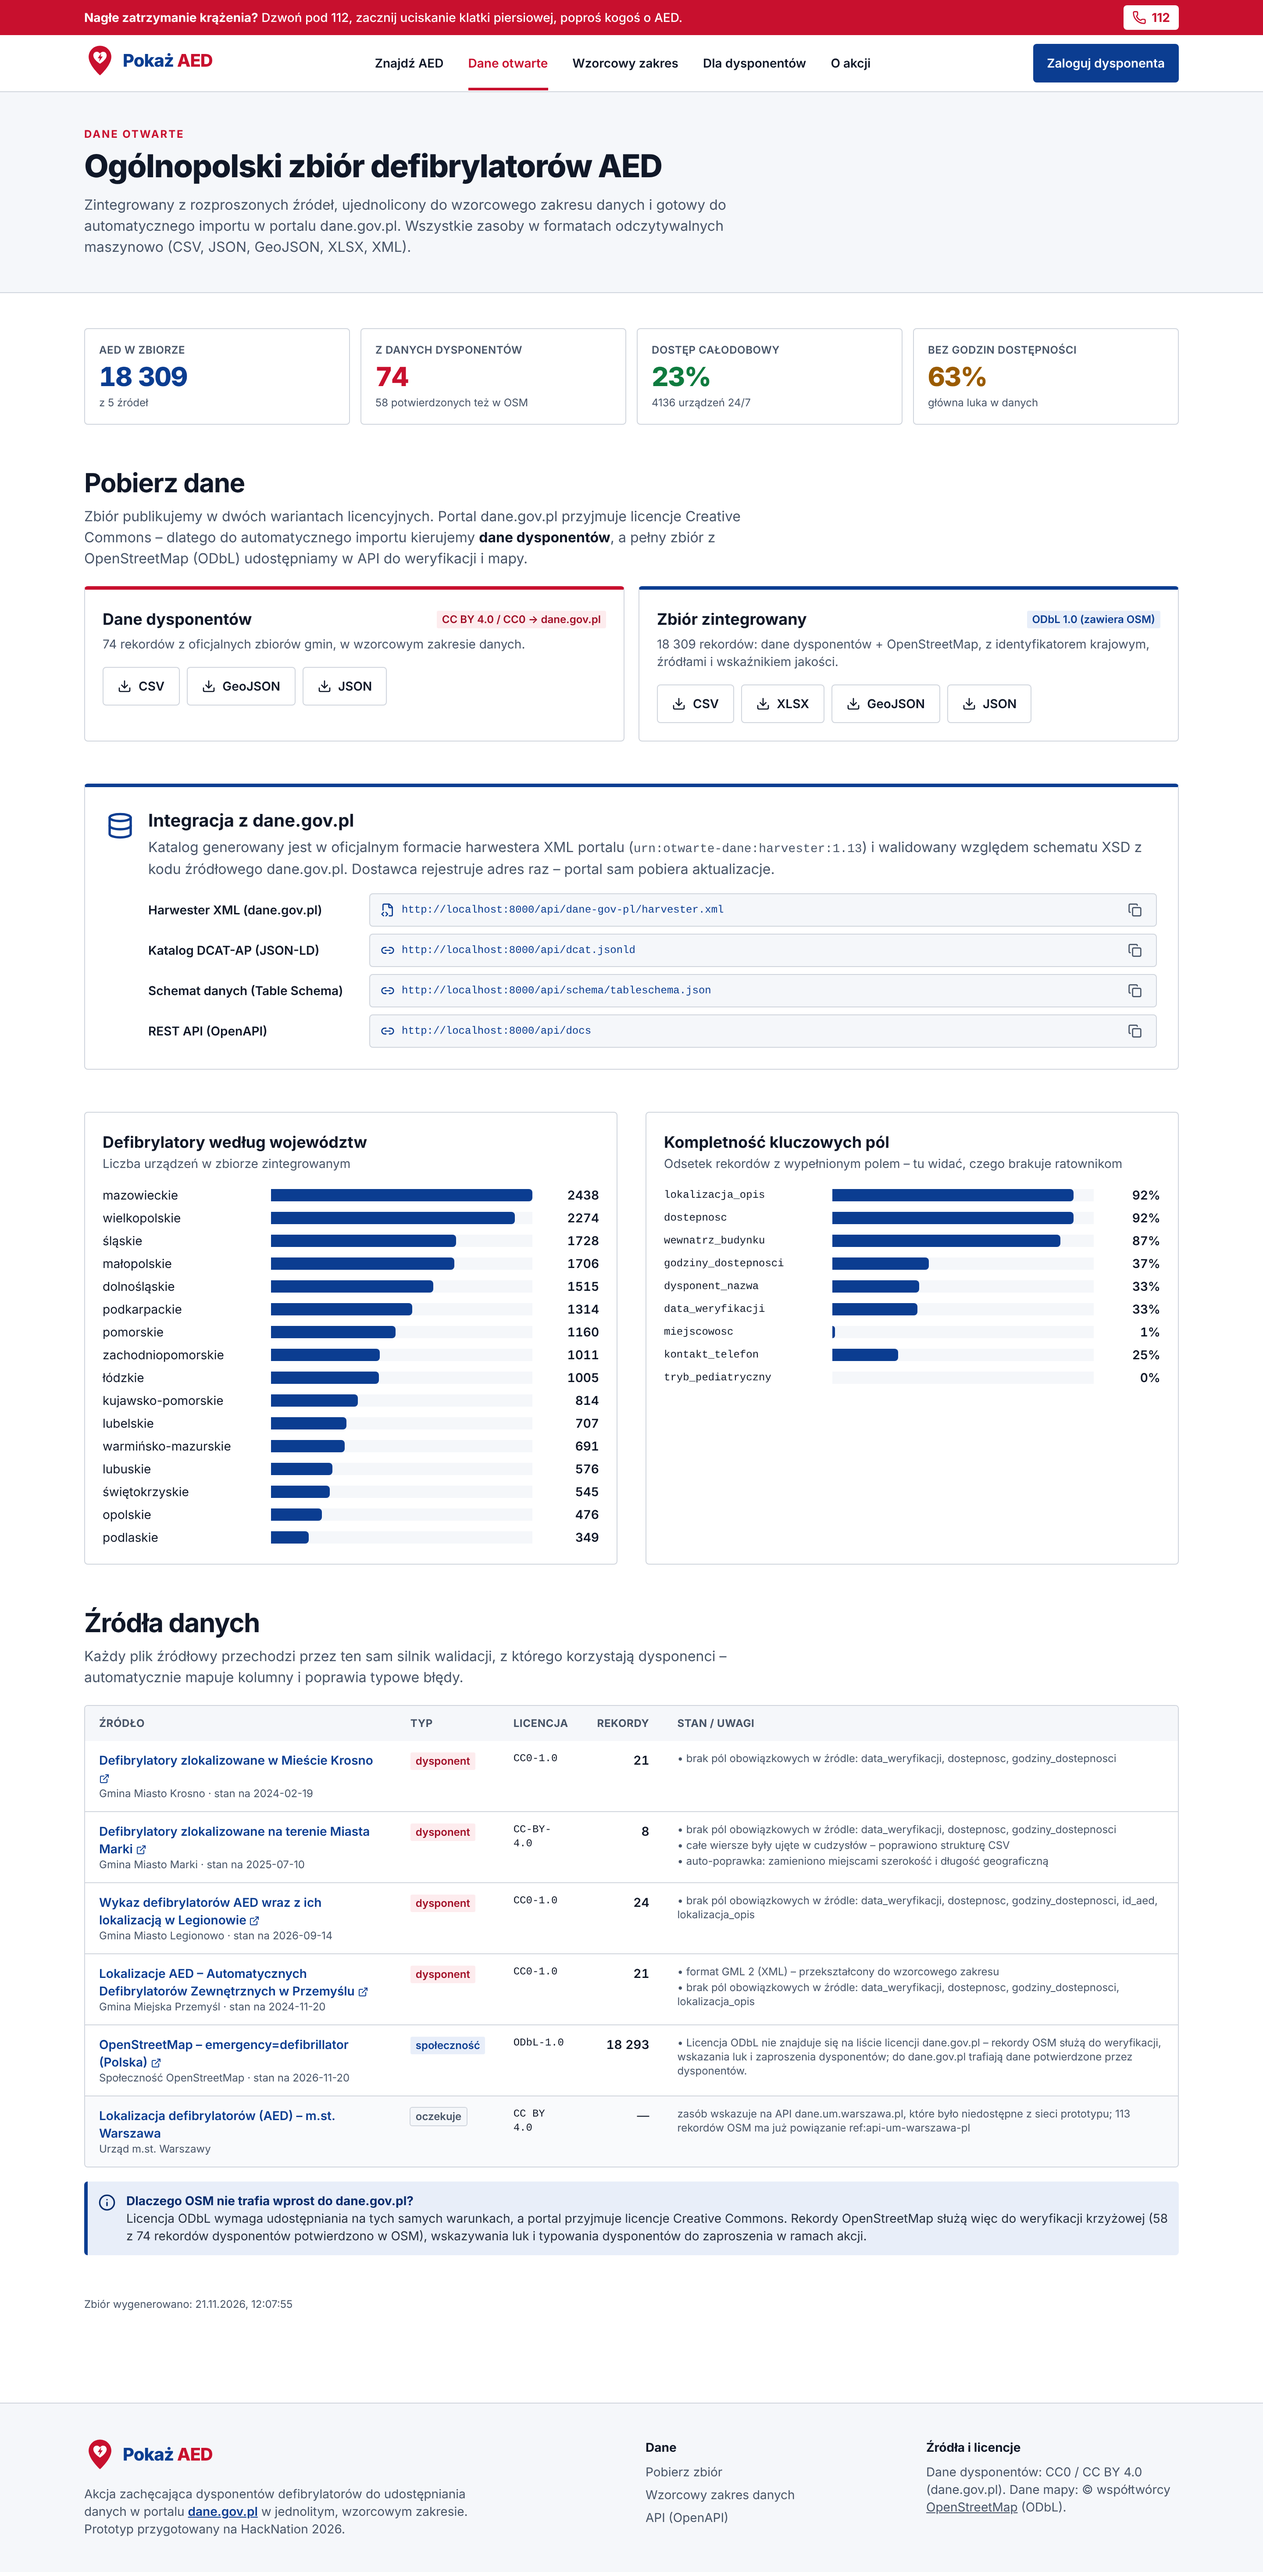
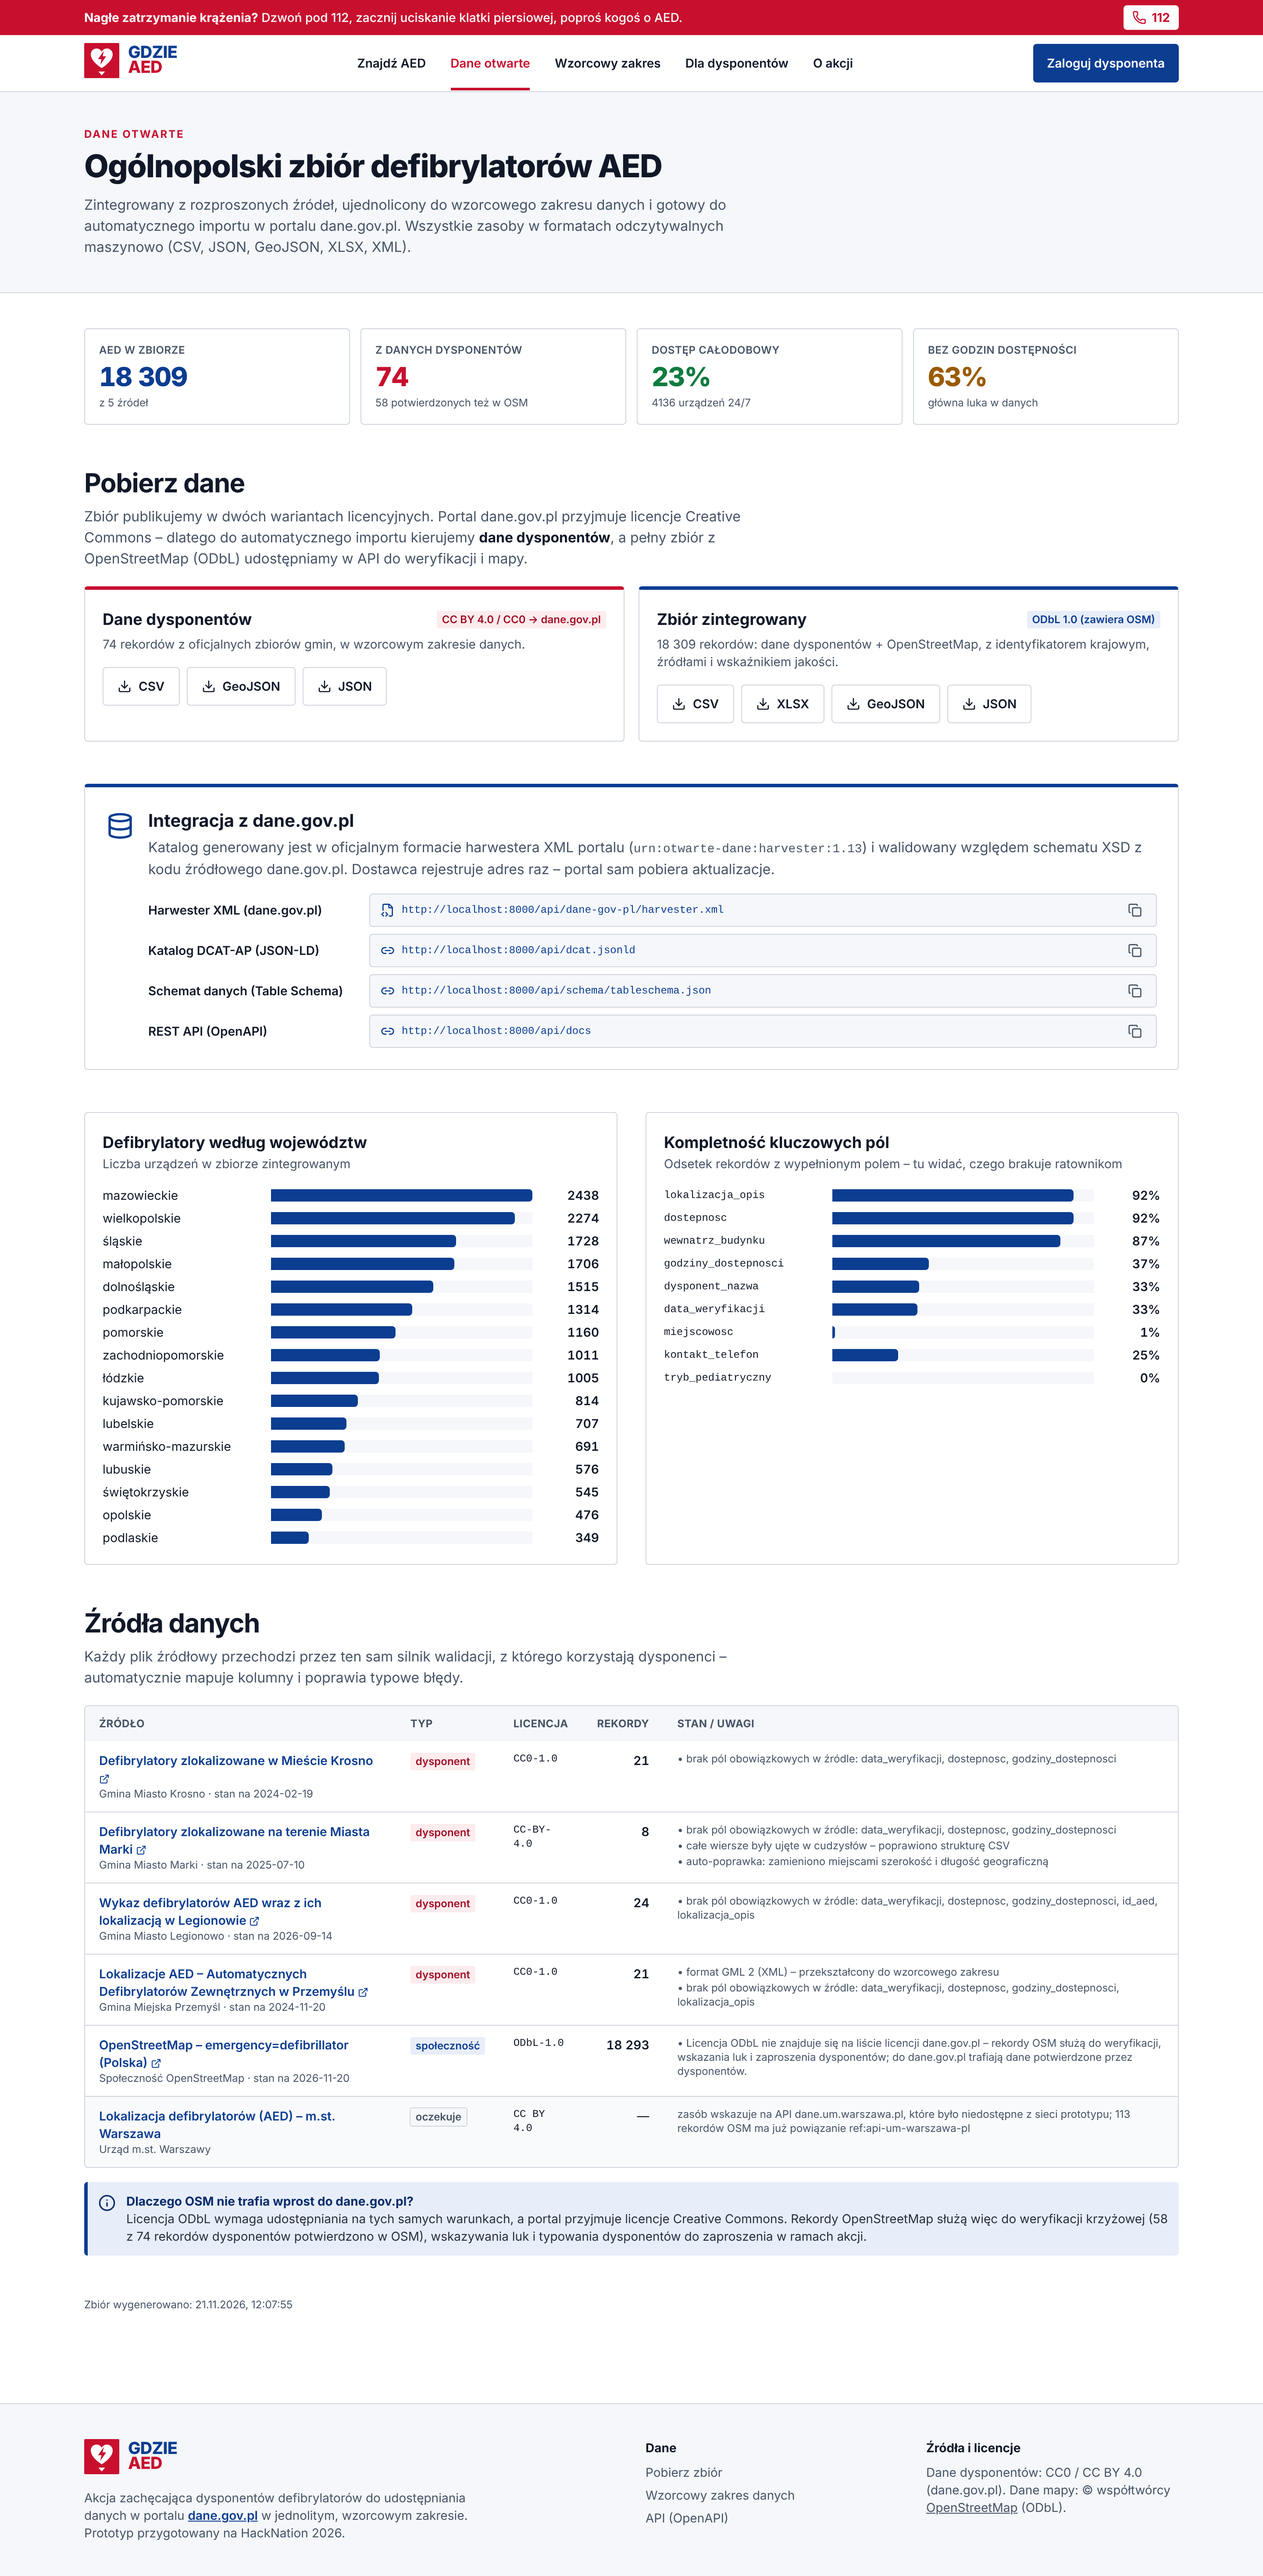
docs: update README, plan and screenshots for GdzieAED

diff --git a/docs/PLAN.md b/docs/PLAN.md
@@ -1,4 +1,4 @@
-# Pokaż AED – project plan & architecture
+# GdzieAED – project plan & architecture
 
 Team working document (EN). Public-facing docs are in Polish (`README.md`).
 
@@ -17,7 +17,7 @@ The jury runs the prototype.
 | Criterion | Weight | Our answer |
 |---|---|---|
 | Follows dane.gov.pl rules | **30%** | Harvester XML in the portal's own format (XSD 1.13 from its source code, tested), DCAT-AP, CC licences, HEAL category, machine-readable formats only |
-| Logo + slogan | **25%** | "Pokaż AED. Każda minuta się liczy." Pin + heart + bolt mark, full brand book |
+| Logo + slogan | **25%** | Name **GdzieAED**, slogan "GdzieAED? Każda minuta się liczy.", holder CTA "Pokaż, gdzie jest Twój AED." Sign-board mark (concept D "Tablica": heart + bolt + "tu jest" pointer), full brand book; 6 concepts kept in `branding/warianty/` |
 | Creativity | 15% | Universal validator with auto-fixes, OSM as a lead list of holders to invite, quality score, "claim your AEDs", citizen reports |
 | Fits the topic | 15% | "Find nearest AED" with open-now / 24/7, exact placement, 112 strip |
 | Data model | 10% | 34 fields, O/Z/F required/recommended/optional, dictionaries, OSM tag mapping, Table Schema + JSON Schema |
@@ -83,7 +83,7 @@ data/sources/*  ──►  adapters (sources.py) ──► universal validator (
 - [x] Reference data model `.xlsx` (`schema/out/wzorcowy_zakres_danych_AED.xlsx`)
 - [x] Source code
 - [x] Logo `.jpg .png .pdf .svg` (`branding/out/`)
-- [x] Brand book `.pdf` (`branding/out/pokaz-aed-ksiega-znaku.pdf`)
+- [x] Brand book `.pdf` (`branding/out/gdzieaed-ksiega-znaku.pdf`)
 - [x] AI usage statement (`docs/AI_USAGE.md`)
 
 ## 5. Next steps (proposed)

diff --git a/docs/AI_USAGE.md b/docs/AI_USAGE.md
@@ -8,7 +8,7 @@ Zgodnie z §2 ust. 7–8 regulaminu zadania zespół deklaruje zakres użycia sz
 | Wzorcowy zakres danych | propozycja listy pól i ich opisów | wybór pól, wymagalność, słowniki, akceptacja |
 | Źródła danych | wyszukanie zbiorów AED w API dane.gov.pl, odnalezienie XSD harwestera w kodzie źródłowym portalu | weryfikacja źródeł i licencji |
 | Kod (Python, TypeScript) | generowanie kodu wg wskazań zespołu | architektura, przegląd, testy, poprawki |
-| Logotyp i księga znaku | wektorowe szkice znaku, skład księgi | koncepcja (pinezka + serce + błyskawica), nazwa i hasło, wybór wariantów |
+| Logotyp i księga znaku | wektorowe szkice znaku, skład księgi | wybór nazwy GdzieAED i wariantu znaku (D „Tablica” spośród 6 koncepcji), hasło, akceptacja |
 | Teksty interfejsu | wersje robocze | redakcja i akceptacja |
 
 Ostateczny kształt rozwiązania jest efektem analizy i pracy zespołu, który posiada do niego wszelkie prawa.

diff --git a/README.md b/README.md
@@ -1,8 +1,8 @@
-# Pokaż AED – dane na ratunek
+# GdzieAED – dane na ratunek
 
 **Misja AED · HackNation 2026 · Ministerstwo Cyfryzacji**
 
-> *Pokaż AED. Każda minuta się liczy.* – rozwiązanie, które zbiera rozproszone dane o defibrylatorach AED, ujednolica je do **wzorcowego zakresu danych** i przygotowuje do **automatycznego importu w portalu dane.gov.pl**, a akcja „Pokaż AED” zachęca dysponentów do udostępniania danych.
+> *GdzieAED? Każda minuta się liczy.* – rozwiązanie, które zbiera rozproszone dane o defibrylatorach AED, ujednolica je do **wzorcowego zakresu danych** i przygotowuje do **automatycznego importu w portalu dane.gov.pl**, a akcja „GdzieAED” zachęca dysponentów do udostępniania danych.
 
 ![Mapa – najbliższe AED](docs/screenshots/01-mapa-najblizsze-aed.png)
 
